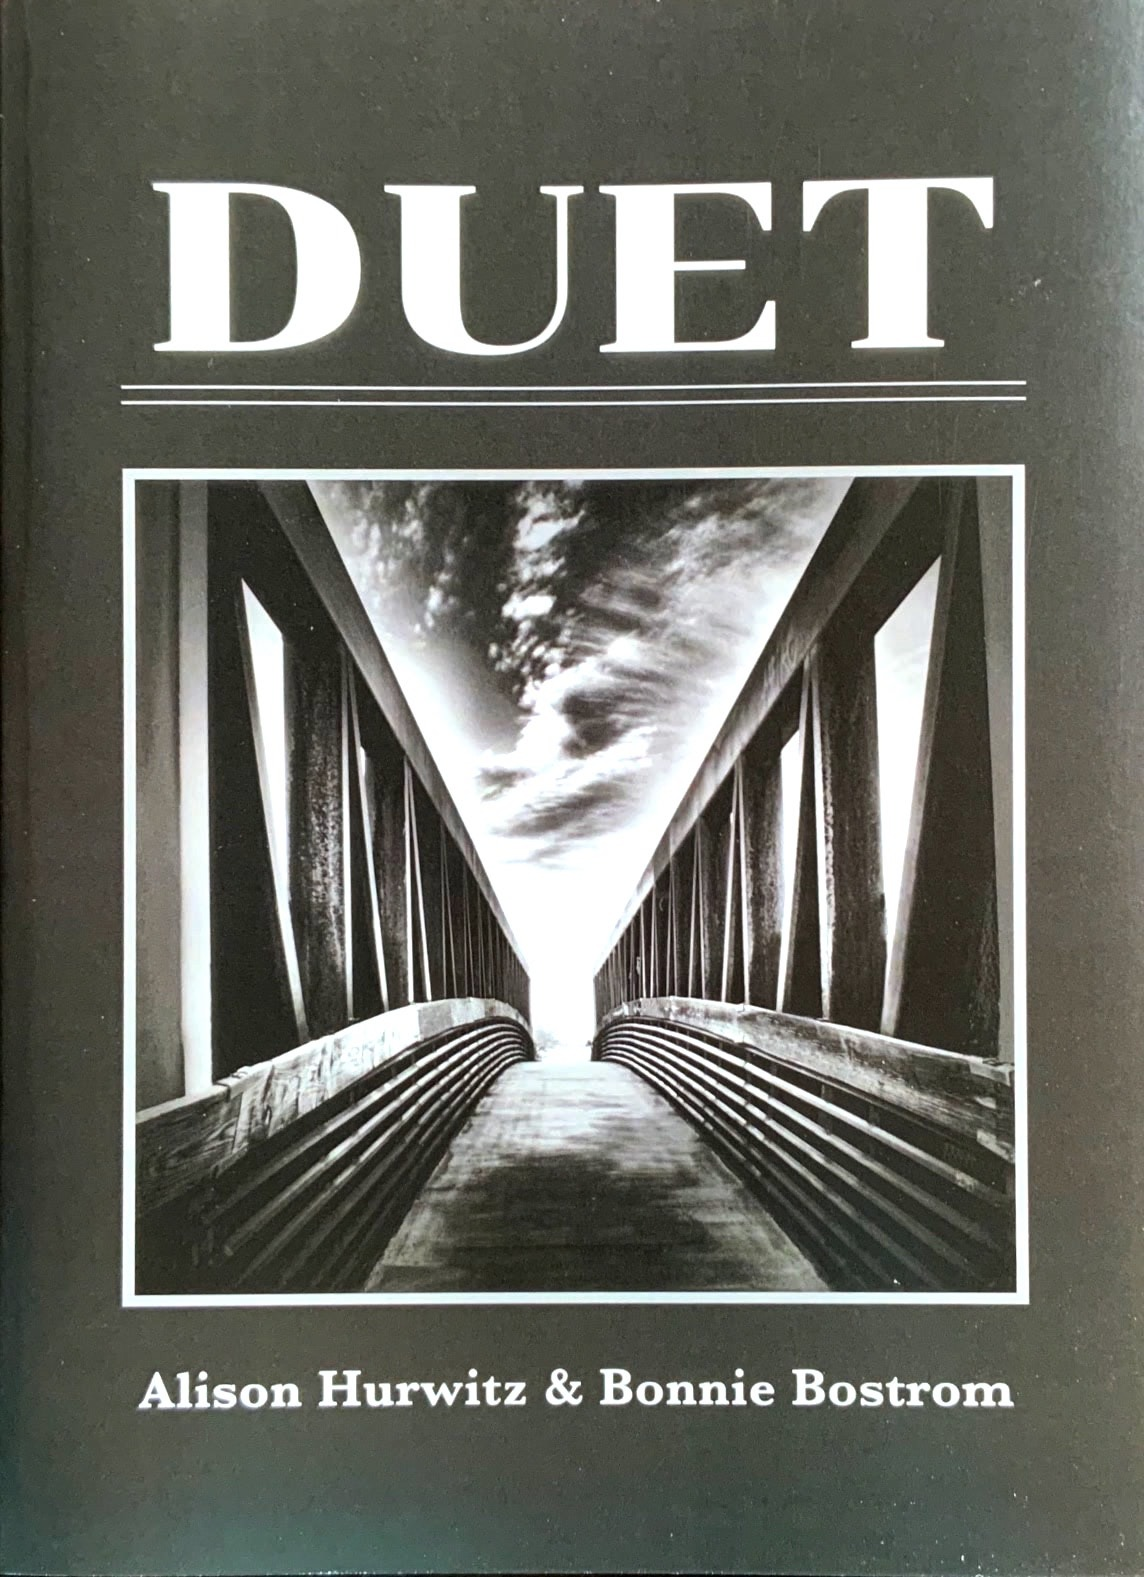
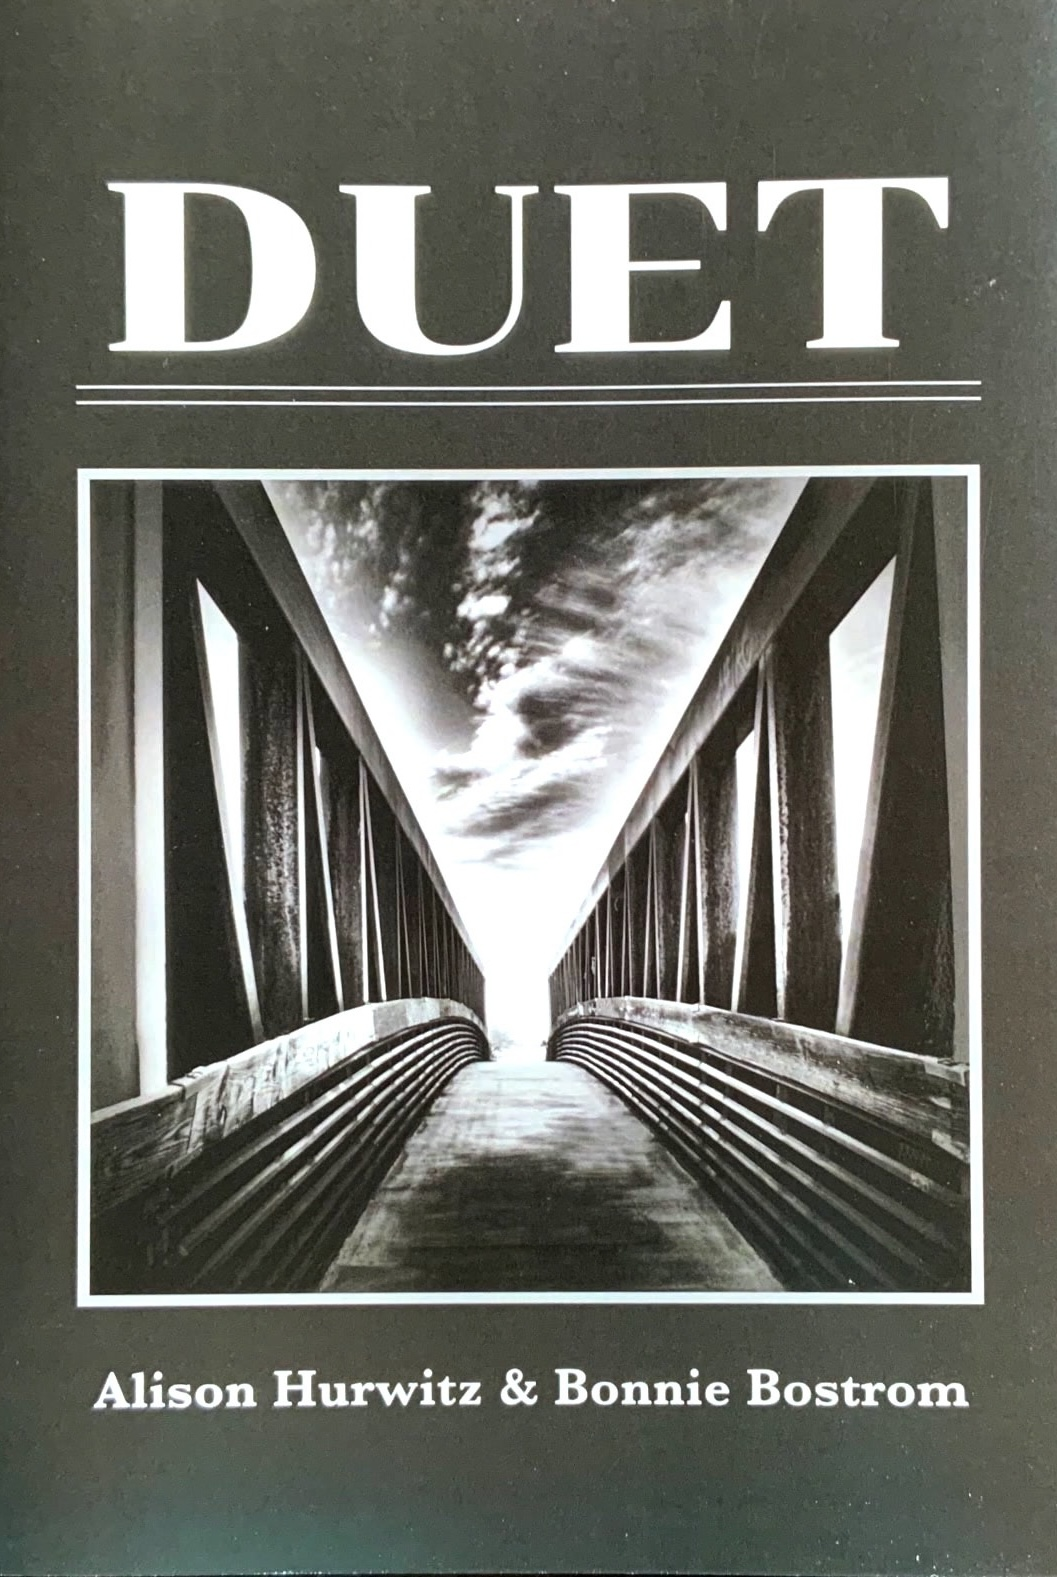
Update Duet book cover image and background color

diff --git a/src/styles/global.css b/src/styles/global.css
@@ -241,7 +241,7 @@ textarea {
 
 /* the-way-showers */
 .card:nth-child(4) .card-image {
-  background-color: #44372e;
+  background-color: #46483d;
 }
 
 /* duet */
